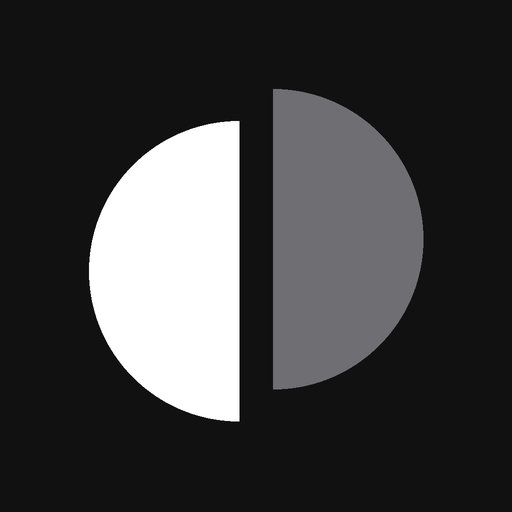
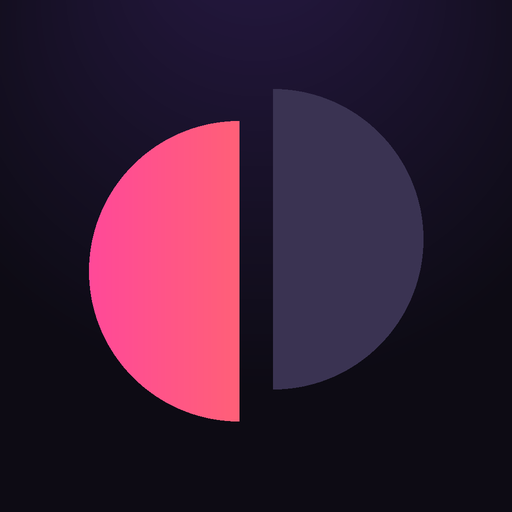
Estètica «Gradient» i tempo sense aturades

diff --git a/index.html b/index.html
@@ -3,11 +3,10 @@
 <head>
 <meta charset="utf-8">
 <meta name="viewport" content="width=device-width, initial-scale=1, viewport-fit=cover">
-<meta name="theme-color" content="#FFFFFF" media="(prefers-color-scheme: light)">
-<meta name="theme-color" content="#000000" media="(prefers-color-scheme: dark)">
+<meta name="theme-color" content="#0D0B14">
 <meta name="apple-mobile-web-app-capable" content="yes">
 <meta name="mobile-web-app-capable" content="yes">
-<meta name="apple-mobile-web-app-status-bar-style" content="default">
+<meta name="apple-mobile-web-app-status-bar-style" content="black-translucent">
 <meta name="apple-mobile-web-app-title" content="cutsolos">
 <title>cutsolos</title>
 <link rel="manifest" href="manifest.webmanifest">
@@ -15,17 +14,12 @@
 <link rel="apple-touch-icon" href="apple-touch-icon.png">
 <style>
 :root{
-  --bg:#FFFFFF; --ink:#111111; --muted:#8A8A8E; --soft:#F2F2F4; --line:#E5E5EA;
-  --pad:#F2F2F4; --pad-ink:#111111; --pad-sub:#9A9A9F; --lit:#111111; --lit-ink:#FFFFFF; --accent:#111111;
-  --font:-apple-system,BlinkMacSystemFont,"SF Pro Text","Helvetica Neue",system-ui,sans-serif;
+  --bg:#0D0B14; --ink:#FFFFFF; --muted:#8B86A3; --soft:rgba(255,255,255,.08); --line:rgba(255,255,255,.08);
+  --pad:#1B1729; --pad-ink:#FFFFFF; --pad-sub:#7E7896; --lit:#FF3CAC; --lit-ink:#FFFFFF; --accent:#FF5FA0;
+  --grad:linear-gradient(90deg,#FF3CAC,#FF8A3D); --sel:#B57BFF;
+  --font:-apple-system,BlinkMacSystemFont,"SF Pro Text",Inter,"Helvetica Neue",system-ui,sans-serif;
+  color-scheme:dark;
 }
-@media (prefers-color-scheme:dark){
-  :root:not([data-theme="light"]){ --bg:#000000; --ink:#F5F5F7; --muted:#8E8E93; --soft:#1C1C1E; --line:#2C2C2E;
-    --pad:#1C1C1E; --pad-ink:#F5F5F7; --pad-sub:#7C7C80; --lit:#F5F5F7; --lit-ink:#000000; --accent:#F5F5F7; }
-}
-:root[data-theme="dark"]{ --bg:#000000; --ink:#F5F5F7; --muted:#8E8E93; --soft:#1C1C1E; --line:#2C2C2E;
-  --pad:#1C1C1E; --pad-ink:#F5F5F7; --pad-sub:#7C7C80; --lit:#F5F5F7; --lit-ink:#000000; --accent:#F5F5F7; }
-
 *{box-sizing:border-box;-webkit-tap-highlight-color:transparent}
 [hidden]{display:none!important}
 html,body{margin:0;height:100%}
@@ -158,12 +152,43 @@ main{flex:1;display:flex;flex-direction:column;padding:8px 20px 20px;gap:18px}
 .toast.on{opacity:.92}
 .sr{position:absolute;width:1px;height:1px;overflow:hidden;clip:rect(0 0 0 0)}
 .foot{font-size:12px;color:var(--muted);text-align:center;padding:4px 0 10px}
+
+/* ---- Tema «Gradient» ---- */
+body{background:radial-gradient(120% 55% at 50% 0%,#2A1B4A 0%,var(--bg) 62%) fixed,var(--bg)}
+.topbar,.dock{background:rgba(13,11,20,.55);border:0}
+.pad{background:linear-gradient(160deg,#221C35,#16131F);border-radius:20px;box-shadow:inset 0 1px 0 rgba(255,255,255,.06)}
+.pad .n{font-weight:700}
+.pad .fill{background:var(--grad)}
+.pad.on{box-shadow:0 10px 30px rgba(255,80,140,.45)}
+.pad.on .n,.pad.on .d{mix-blend-mode:normal;color:#fff}
+.pad.sel{box-shadow:0 0 0 2px var(--sel)}
+.pad.picking{background:linear-gradient(160deg,#5B3A9E,#3A2766);color:#fff}
+.pad.picking .d{color:#fff}
+.chip,.pill,.nud button{background:rgba(255,255,255,.08);color:#fff}
+.detail input{accent-color:var(--accent)}
+.dock button[aria-pressed="true"]{background:rgba(255,255,255,.1);color:#fff}
+.drop{border-color:rgba(255,255,255,.14)}
+.drop .big{background:rgba(255,255,255,.08)}
+.drop .cta,.go,.round{background:var(--grad);color:#fff}
+.mark{border-color:rgba(255,255,255,.25);color:#fff}
+.mark:active{background:var(--grad);border-color:transparent}
+.item .ic{background:linear-gradient(160deg,#221C35,#16131F)}
+.item .del.sure{color:#FF5F7A}
+.tl{background:rgba(255,255,255,.06)}
+.bars i{background:rgba(255,255,255,.14)}
+.bars i.in{background:linear-gradient(180deg,#FF3CAC,#FF8A3D)}
+.reg{background:rgba(255,95,160,.10)}
+.h span{background:#fff}
+.h span::before{background:#fff;border-color:#fff}
+.ph{background:#FF8A3D}
+.toast{background:rgba(255,255,255,.12);color:#fff;backdrop-filter:blur(12px);-webkit-backdrop-filter:blur(12px)}
+.ren:focus{background:rgba(255,255,255,.08);box-shadow:0 0 0 6px rgba(255,255,255,.08)}
 </style>
 </head>
 <body>
 <div class="app">
   <header class="topbar">
-    <h1 class="logo" id="home" role="button" tabindex="0" aria-label="Les meves cançons"><svg class="mark-logo" viewBox="0 0 24 24" aria-hidden="true"><path d="M11 2.5a9.5 9.5 0 0 0 0 19z" fill="currentColor"/><path d="M13 0.5a9.5 9.5 0 0 1 0 19z" fill="currentColor" opacity=".35"/></svg><span>cut<b>solos</b></span></h1>
+    <h1 class="logo" id="home" role="button" tabindex="0" aria-label="Les meves cançons"><svg class="mark-logo" viewBox="0 0 24 24" aria-hidden="true"><defs><linearGradient id="lg" x1="0" x2="1"><stop offset="0" stop-color="#FF3CAC"/><stop offset="1" stop-color="#FF8A3D"/></linearGradient></defs><path d="M11 2.5a9.5 9.5 0 0 0 0 19z" fill="url(#lg)"/><path d="M13 0.5a9.5 9.5 0 0 1 0 19z" fill="currentColor" opacity=".35"/></svg><span>cut<b>solos</b></span></h1>
   </header>
 
   <main>
@@ -515,7 +540,7 @@ function playRange(a,b){
   const ctx=getCtx(); stop(true);
   const s=S.phrases[a].s, e=S.phrases[b].e, rate=S.rate;
   S.last={a,b};
-  if(rate!==1 && S.blob){ startMedia(a,b,s); return; }
+  if(S.blob){ startMedia(a,b,s); return; }   // sempre el mateix motor: canviar el tempo és instantani
   const src=ctx.createBufferSource(); src.buffer=S.buf;
   const dur=e-s;
   const g=ctx.createGain(); src.connect(g); g.connect(ctx.destination);

diff --git a/sw.js b/sw.js
@@ -1,5 +1,5 @@
 // cutsolos: funciona sense connexió. Primer intenta la xarxa (per tenir sempre l'última versió) i, si no n'hi ha, fa servir la còpia desada.
-const CACHE = 'cutsolos-v9';
+const CACHE = 'cutsolos-v10';
 const FILES = ['./', './index.html', './manifest.webmanifest', './icon-192.png', './icon-512.png', './apple-touch-icon.png'];
 self.addEventListener('install', e => { e.waitUntil(caches.open(CACHE).then(c => c.addAll(FILES)).then(() => self.skipWaiting())); });
 self.addEventListener('activate', e => { e.waitUntil(caches.keys().then(ks => Promise.all(ks.filter(k => k !== CACHE).map(k => caches.delete(k)))).then(() => self.clients.claim())); });
